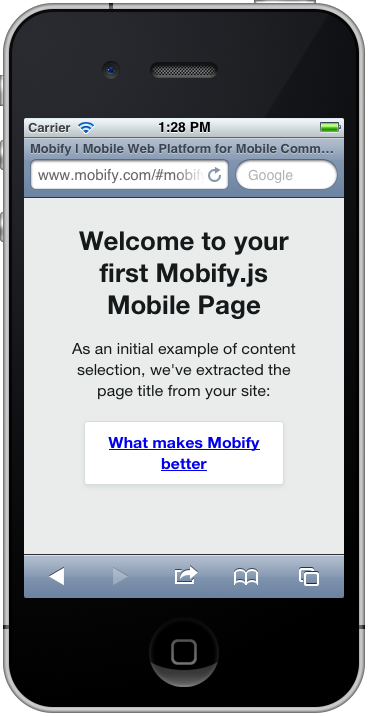
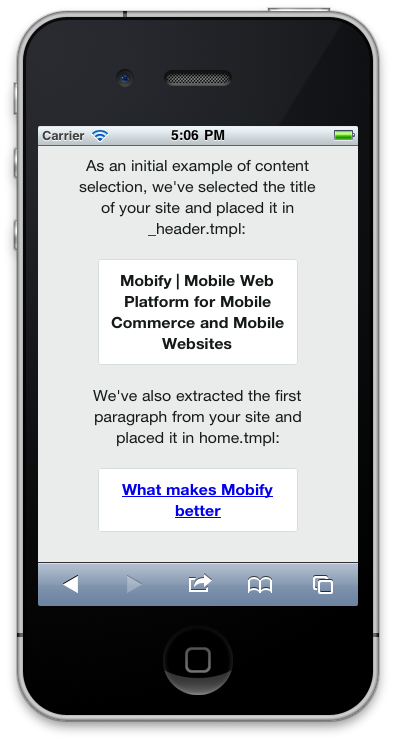
Updating the getting started guide to be in tune with the recent scaffold changes.

diff --git a/www/docs/getting-started.md b/www/docs/getting-started.md
@@ -10,15 +10,16 @@ and put the tag on the page you'd like to adapt. You've seen "Hello World", but
 crave more.
 
 Open _myproject/src/mobify.konf_ in your text editor. The konf is a JavaScript
-file required by every Mobify.js project. It contains the operations performed 
-on the source DOM. The _mobify.konf_ in the scaffold project selects the text 
-content of the &lt;title&gt; element and renders a template to display it.
+file required by every Mobify.js project. It contains the DOM operations
+performed on the source DOM. The _mobify.konf_ in the scaffold selects the text
+content of the first &lt;p&gt; element and renders a template to display it.
 
 Let's change it to display to first &lt;a&gt; element on the page. Change the 
 *content* key to the following:
 
     'content': function(context) {
-        return context.choose({
+        return context.choose(
+        {
             'templateName': 'home'
           , '!link': function() {
                 return $('a[href]').first();
@@ -26,10 +27,12 @@ Let's change it to display to first &lt;a&gt; element on the page. Change the
         })
     },
 
-Now open _myproject/src/tmpl/home.tmpl_ and update the contents of the 
-*p.extract* tag:
+Now open _myproject/src/tmpl/home.tmpl_ and replace `content.firstp` with 
+`content.link`):
     
-    <p class="extract">{content.link}</p>
+    <p class="extract">
+        {content.link}
+    </p>
 
 Save your changes and refresh the page. You should see the first link from your 
 adapted page:
@@ -41,31 +44,38 @@ source DOM. We've told the konf to select the first link and store it in the
 context under the key *content.link*. We then updated the varaible in the 
 template to refer to this key in the konf.
 
-Follow the link in your browser.
+Now click on the link you just created.
 
 The same adaptation is being applied to this page! Let's change the konf to 
 make different selections on this page and render a different template.
 
-Update your konf:
+In order to render different templates, we have a function called choose, which is 
+simply a function that takes multiple template objects that must contain
+a templateName variable, and a list of variables that describe which template to render.
+You can also think of those variables as mapping which DOM elements are needed to render
+a specific template.
+
+Here, we use the pathname to match the homepage (and subpage will match any page with an h1).
 
     'content': function(context) {
-        return context.choose({
-            'templateName': 'subpage'
-          , '!routing': function() {
-                return location.pathname != '/';
-            }
-          , 'headings': function() {
-                return $('h1');
-            }
-        }, {
+        return context.choose(
+        {
             'templateName': 'home'
           , '!link': function(context) {
-                return $('a[href]').slice(7, 8);
+                return $('a[href]').first();
+            }
+          , '!routing': function() {
+                return location.pathname == '/';
+            }
+        }, {
+            'templateName': 'subpage'
+          , '!headings': function() {
+                return $('h1');
             }
         })
     },
 
-Refresh the page.
+Update your konf with the text above and refresh the page.
 
 Egads! It's a blank page. What's going on? Open the Webkit Inspector to see 
 debugging information:
@@ -77,14 +87,14 @@ a _src/tmpl/subpage.tmpl_. Let's make that now:
 
     {>base/}
 
-    {<body}
+    {<content}
         <h1>Template Name: {content.templateName}</h1>
         <ul>
             {#content.headings}
                 <li>{.|innerHTML}</li>
             {/content.headings}
         </ul>
-    {/body}
+    {/content}
 
 The template we just created inherits for _base.tmpl_ and overrides the *body*
 block within it. If you open up the _base.tmpl_, you can see that you have full
